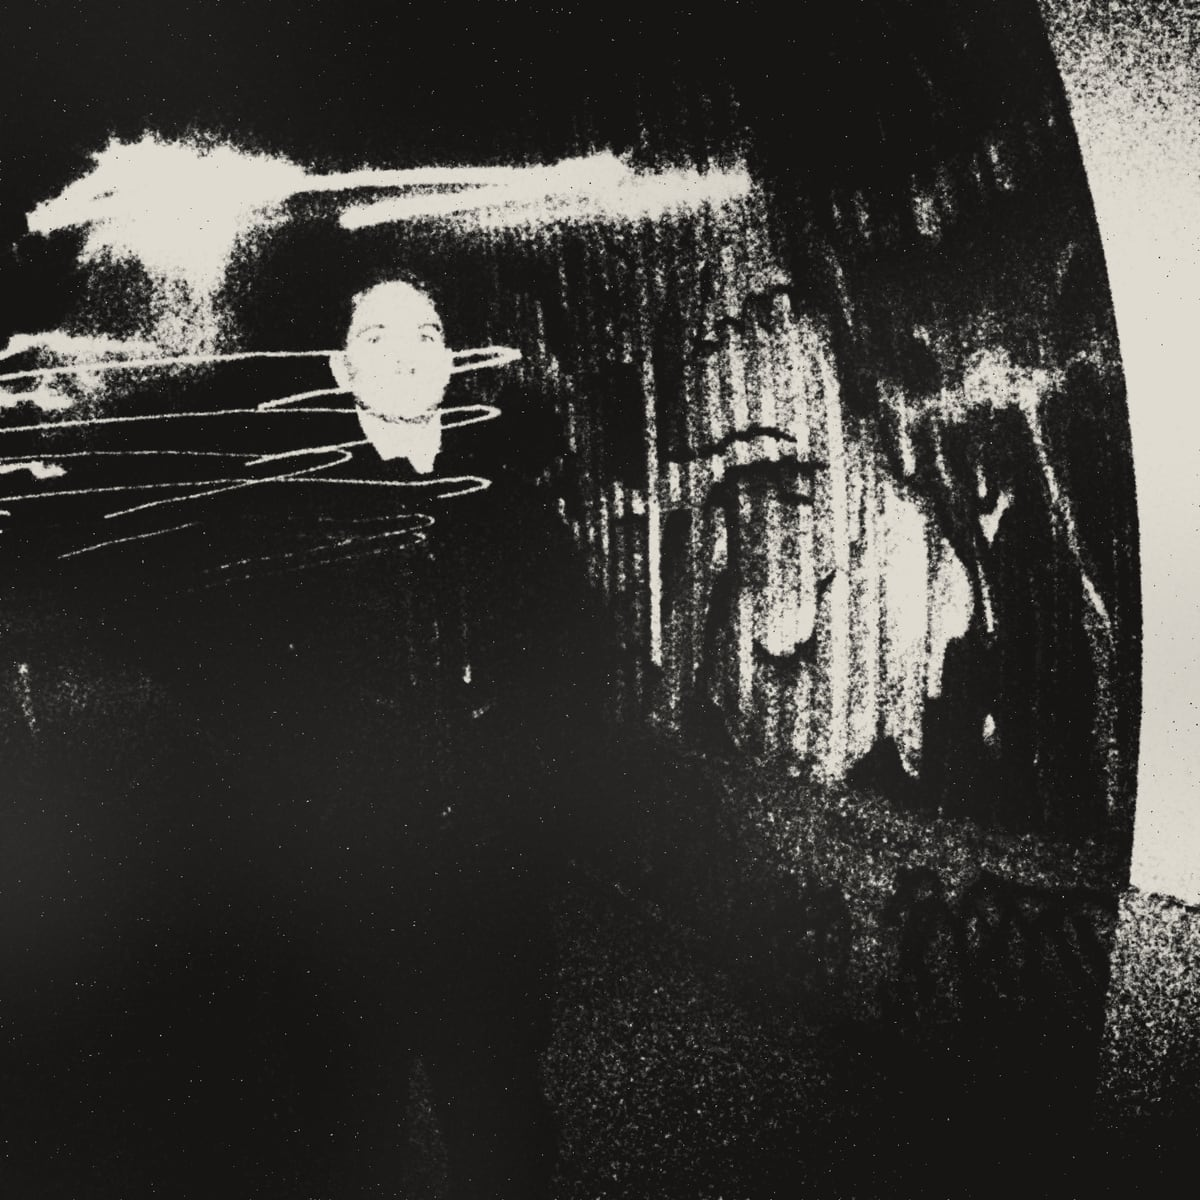
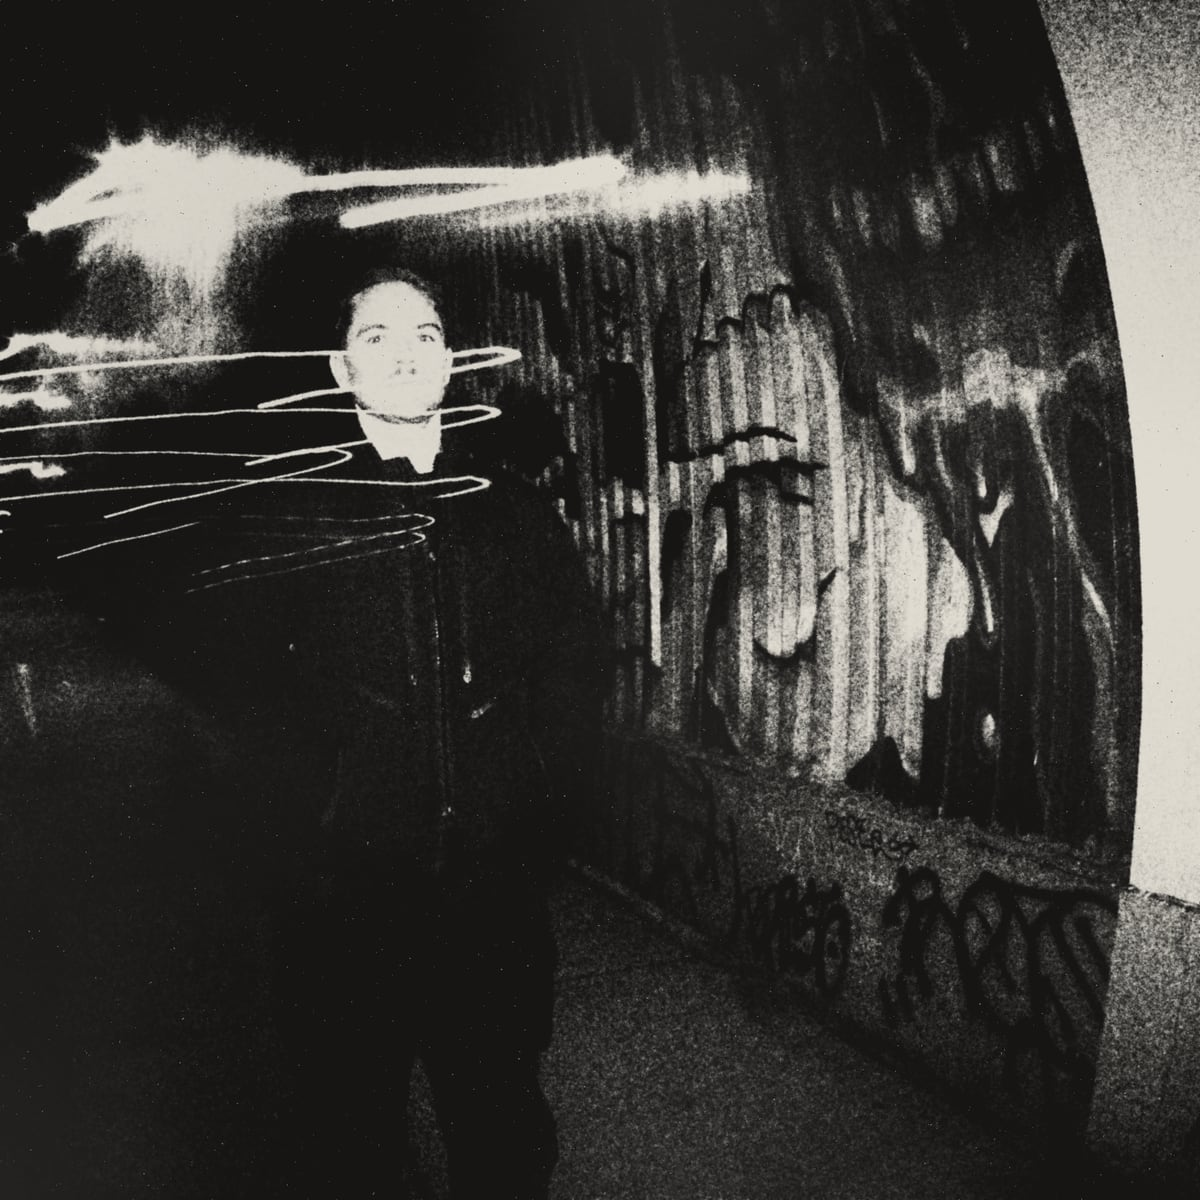
Dial every print effect back to about 60%
Display type and buttons: softer ink edge, much lighter toner variation,
fewer pinholes. Paper: lighter grain, rarer specks, gentler room. The
printed photos are re-mastered at drive 0.9 with two generations instead
of 1.5 and three. The logo and release covers are unchanged.

diff --git a/src/components/site-footer.tsx b/src/components/site-footer.tsx
@@ -11,19 +11,19 @@ function InkFilter() {
     <svg className="sr-only" aria-hidden="true" focusable="false">
       <filter id="ink" x="-1%" y="-1%" width="102%" height="102%" colorInterpolationFilters="sRGB">
         <feTurbulence type="fractalNoise" baseFrequency="0.85" numOctaves="2" seed="3" result="toner" />
-        <feDisplacementMap in="SourceGraphic" in2="toner" scale="1.6" xChannelSelector="R" yChannelSelector="G" result="edge" />
+        <feDisplacementMap in="SourceGraphic" in2="toner" scale="1" xChannelSelector="R" yChannelSelector="G" result="edge" />
         <feTurbulence type="fractalNoise" baseFrequency="0.22" numOctaves="2" seed="8" result="field" />
-        <feColorMatrix in="field" type="matrix" values="0 0 0 0 0  0 0 0 0 0  0 0 0 0 0  0.4 0 0 0 0.74" result="density" />
+        <feColorMatrix in="field" type="matrix" values="0 0 0 0 0  0 0 0 0 0  0 0 0 0 0  0.24 0 0 0 0.82" result="density" />
         <feTurbulence type="fractalNoise" baseFrequency="0.55" numOctaves="2" seed="21" result="fine" />
-        <feColorMatrix in="fine" type="matrix" values="0 0 0 0 0  0 0 0 0 0  0 0 0 0 0  -30 0 0 0 21.6" result="pins" />
+        <feColorMatrix in="fine" type="matrix" values="0 0 0 0 0  0 0 0 0 0  0 0 0 0 0  -30 0 0 0 22.3" result="pins" />
         <feComposite in="density" in2="pins" operator="in" result="mask" />
         <feComposite in="edge" in2="mask" operator="in" />
       </filter>
       <filter id="ink-solid" x="0" y="0" width="100%" height="100%" colorInterpolationFilters="sRGB">
         <feTurbulence type="fractalNoise" baseFrequency="0.22" numOctaves="2" seed="5" result="field" />
-        <feColorMatrix in="field" type="matrix" values="0 0 0 0 0  0 0 0 0 0  0 0 0 0 0  0.4 0 0 0 0.74" result="density" />
+        <feColorMatrix in="field" type="matrix" values="0 0 0 0 0  0 0 0 0 0  0 0 0 0 0  0.24 0 0 0 0.82" result="density" />
         <feTurbulence type="fractalNoise" baseFrequency="0.9" numOctaves="1" seed="13" result="fine" />
-        <feColorMatrix in="fine" type="matrix" values="0 0 0 0 0  0 0 0 0 0  0 0 0 0 0  -40 0 0 0 30.5" result="pins" />
+        <feColorMatrix in="fine" type="matrix" values="0 0 0 0 0  0 0 0 0 0  0 0 0 0 0  -40 0 0 0 31.2" result="pins" />
         <feComposite in="density" in2="pins" operator="in" result="mask" />
         <feComposite in="SourceGraphic" in2="mask" operator="in" />
       </filter>

diff --git a/scripts/make-surface.py b/scripts/make-surface.py
@@ -58,14 +58,14 @@ def main():
     OUT.mkdir(parents=True, exist_ok=True)
     rng = np.random.default_rng(3)
 
-    save(grain(rng, 384, 0.04, -3.5), "grain-a.png")
-    save(grain(rng, 263, 0.03, -3.7), "grain-b.png")
+    save(grain(rng, 384, 0.024, -3.75), "grain-a.png")
+    save(grain(rng, 263, 0.018, -3.95), "grain-b.png")
 
     # Room: one uneven exposure. The bus blurs noise at radius 150 on a 1080 px poster; this
     # 96 px field is tiled at the page's width, so radius 10 keeps that scale. It wraps, so it tiles.
     small = 96
     field = clumped(rng, (small, small), 10)
-    save(np.clip(0.05 + 0.03 * field, 0, 1), "room.png")
+    save(np.clip(0.03 + 0.018 * field, 0, 1), "room.png")
 
 
 if __name__ == "__main__":
